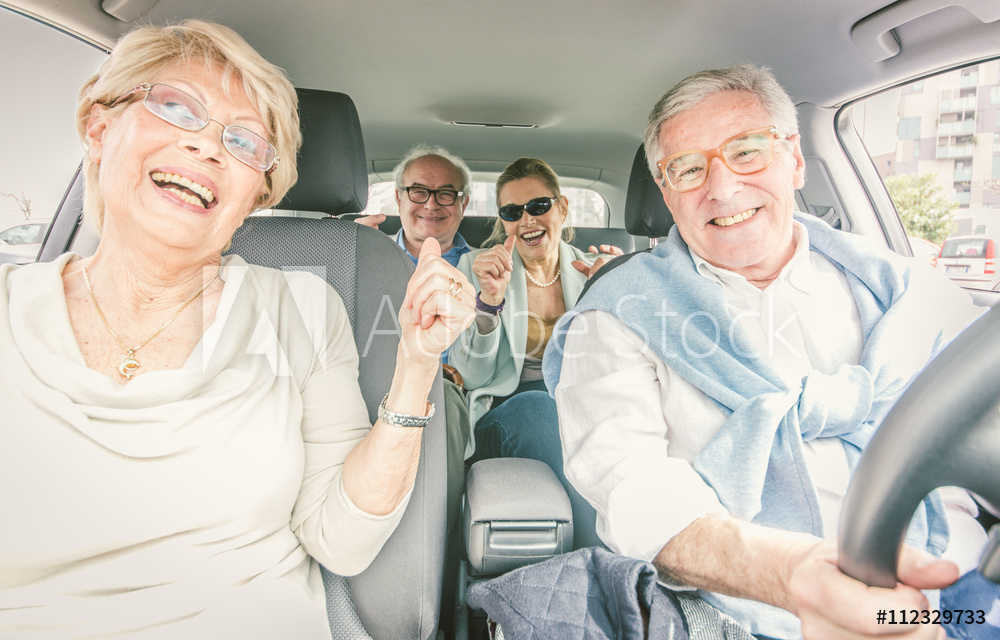
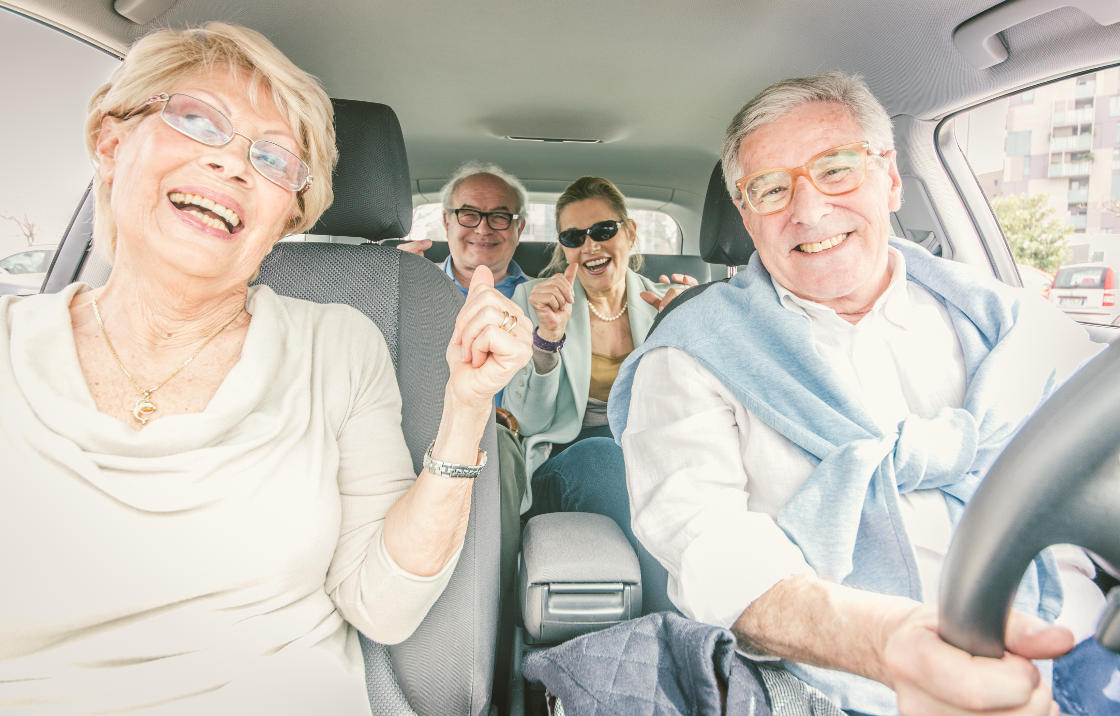
Add new picture to about page

diff --git a/pages/over-easydriving.html b/pages/over-easydriving.html
@@ -69,6 +69,10 @@ permalink: /over-easydriving
 
         <h2 class="c-heading --medium --green u-mb">Samen van start in het noorden!</h2>
 
+        <div class="c-image --left">
+            <img src="{{ site.image_path }}/over-easydriving/samen-van-start.jpg">
+        </div>
+
         <p class="c-paragraph u-mb">De keuze van de auto staat vrij. Mocht de auto van jouw keuze er nog niet bij staan, neem dan contact op. Grote kans dat we deze ook kunnen leveren.</p>
 
         <p class="c-paragraph u-mb">We willen de mogelijkheden graag verder toe te lichten als er belangstelling is in dorpen of door bedrijven. De keuze van de auto staat vrij. Mocht de auto van jouw keuze er nog niet bij staan, neem dan contact op. Grote kans dat we deze ook kunnen leveren.</p>

diff --git a/src/styles/sections/_s-our-cars.sass b/src/styles/sections/_s-our-cars.sass
@@ -19,3 +19,8 @@
         display: flex
         align-items: center
         margin-bottom: 20px
+        justify-content: center
+
+        +mobile
+            img
+                width: 80%
